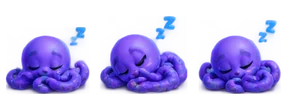
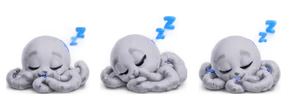
Agent Panel: the octopus takes its state's colour, green, red or grey

diff --git a/agent-panel.html b/agent-panel.html
@@ -10,7 +10,8 @@
      Mascot (2026-11-09): a purple octopus (the maintainer's sheet, cut by tools/mascot-export.py into
      mascot/ and inlined by agent-panel.pyw as window.MASCOT). It is the header's logo and sits on every
      card: reading a tablet while the session works, puzzled with a question mark while it asks, calm and
-     blinking now and then while it is open, asleep and still when closed. Without the strips the old logo stays. The bars' 50-80 % band is gold to match the status line,
+     blinking now and then while it is open, asleep and still when closed, and takes its state's dot
+     colour (green, red, grey; the strips are recoloured at export). Without the strips the old logo stays. The bars' 50-80 % band is gold to match the status line,
      an exception to Spark's "gold for rewards only". Written-down exceptions to design.md "One row,
      one shape": the header's logo (36, the octopus), count pill (18, pill radius) and hide button (26) differ, the
      pill qualifying the title and the button standing apart at the edge. Headings and boxes share the

diff --git a/tools/mascot-export.py b/tools/mascot-export.py
@@ -6,7 +6,9 @@ Source: tools/mascot-source/purple-octopus.png, a 1536 x 1024 sheet with transpa
 two columns of six numbered rows, five frames per row, a dark label pill at each row's top left.
 Each row used here is cut into its frames (alpha bands between the drawings), every frame placed
 on one square canvas per row, standing on the drawing's baseline and centred on it, so the frames
-line up when played; then scaled to 96 px frames (shown at 36 to 38 px, sharp on scaled screens).
+line up when played; then scaled to 96 px frames (shown at 36 to 38 px, sharp on scaled screens),
+and recoloured to its state's dot colour: only the octopus's purple changes hue (the blue eyes, the
+white and the props keep theirs), green for open and working, red for asking, grey for closed.
 Output: mascot/<name>.webp next to this folder's parent, one horizontal strip per name, and
 mascot/logo.png, the package's logo (256 px), and mascot/tray.png, the tray icon (64 px).
 """
@@ -19,13 +21,30 @@ HERE = os.path.dirname(os.path.abspath(__file__))
 SRC = os.path.join(HERE, "mascot-source", "purple-octopus.png")
 OUT = os.path.join(os.path.dirname(HERE), "mascot")
 OUT_PX = 96
-# name: (column 0 or 1, row band 0..5, frames to keep in play order)
+# name: (column 0 or 1, row band 0..5, frames to keep in play order, colour)
 STRIPS = {
-    "calm": (0, 0, [0, 1, 2, 3, 4]),        # 1 Calm: looks around, blinks
-    "reading": (1, 0, [0, 1, 2, 3, 4]),     # 2 Watching / reading a tablet
-    "sleeping": (0, 1, [0, 1, 2]),          # 3 Asleep (cap and bubble frames left out)
-    "asking": (1, 3, [1, 2, 4, 2]),         # 8 Puzzled, question marks (the box frame left out)
+    "calm": (0, 0, [0, 1, 2, 3, 4], "green"),     # 1 Calm: looks around, blinks
+    "reading": (1, 0, [0, 1, 2, 3, 4], "green"),  # 2 Watching / reading a tablet
+    "sleeping": (0, 1, [0, 1, 2], "grey"),        # 3 Asleep (cap and bubble frames left out)
+    "asking": (1, 3, [1, 2, 4, 2], "red"),        # 8 Puzzled, question marks (the box frame left out)
 }
+# the panel's dot colours (--green #16a34a, --red #e11d48, --gone grey) as a target hue for the
+# octopus's purple (hue about 250), with saturation and brightness scaled so it is not neon
+COLOURS = {"green": (142, 0.8, 0.85), "red": (350, 0.9, 0.95), "grey": (None, 0.1, 0.85)}
+
+
+def recolour(img, colour):
+    hue, sat, val = COLOURS[colour]
+    rgba = np.array(img)
+    hsv = np.array(Image.fromarray(rgba[:, :, :3]).convert("HSV")).astype(float)
+    h = hsv[:, :, 0] * 360 / 255
+    purple = (h >= 232) & (h <= 320) & (hsv[:, :, 1] > 30)  # the irises (hue about 215) stay blue
+    if hue is not None:
+        hsv[:, :, 0] = np.where(purple, (h + hue - 250) % 360, h) * 255 / 360
+    hsv[:, :, 1] = np.where(purple, hsv[:, :, 1] * sat, hsv[:, :, 1])
+    hsv[:, :, 2] = np.where(purple, hsv[:, :, 2] * val, hsv[:, :, 2])
+    rgb = np.array(Image.fromarray(hsv.clip(0, 255).astype("uint8"), "HSV").convert("RGB"))
+    return Image.fromarray(np.dstack([rgb, rgba[:, :, 3]]), "RGBA")
 BANDS = [0, 170, 345, 530, 700, 870, 1024]
 
 sheet = Image.open(SRC).convert("RGBA")
@@ -67,7 +86,7 @@ def frames_of(col, band):
 
 
 os.makedirs(OUT, exist_ok=True)
-for name, (col, band, keep) in STRIPS.items():
+for name, (col, band, keep, colour) in STRIPS.items():
     frames = frames_of(col, band)
     side = max(max(f.width, f.height) for f in frames) + 6
     strip = Image.new("RGBA", (OUT_PX * len(keep), OUT_PX))
@@ -76,10 +95,10 @@ for name, (col, band, keep) in STRIPS.items():
         canvas = Image.new("RGBA", (side, side))
         canvas.paste(f, ((side - f.width) // 2, side - 3 - f.height))
         strip.paste(canvas.resize((OUT_PX, OUT_PX), Image.LANCZOS), (i * OUT_PX, 0))
-    strip.save(os.path.join(OUT, name + ".webp"), "WEBP", quality=85, method=6)
-    print("wrote %s (%d frames)" % (name, len(keep)))
+    recolour(strip, colour).save(os.path.join(OUT, name + ".webp"), "WEBP", quality=85, method=6)
+    print("wrote %s (%d frames, %s)" % (name, len(keep), colour))
 
-# the package's logo (README, tray icon): the calm octopus's first pose, cut close to its drawing
+# the package's logo (README, tray icon): the calm octopus's first pose in its own purple, cut close
 f = frames_of(*STRIPS["calm"][:2])[0]
 side = max(f.width, f.height)
 logo = Image.new("RGBA", (side, side))

diff --git a/memory.md b/memory.md
@@ -27,7 +27,7 @@ Key file: `~/.claudex/profiles/glm/.env`, line `CLAUDEX_KEY="..."`. Never in thi
 - Right-click menu (2026-11-07, the maintainer's spec): Hide / Unhide, Close (open sessions only), Delete. The menu is HTML inside the panel (a web page cannot draw outside its window), opened at the pointer and kept inside the panel; Delete is red on a pale red hover. It closes on Escape, on a click outside (that click does nothing else), on scroll and on focus loss. The native menu was rejected (the maintainer, 2026-11-08: it ignores the theme). Hidden ids live in `~/.claude/state/agent-panel/hidden.json`; Hidden sessions, sessions whose folder is gone and headless runs (`entrypoint` `sdk-cli` in the transcript: a `claude -p` that another session started, e.g. tech news calling the Topview MCP; 2026-11-08, the maintainer) stay out of the main list and the header count; a headless card says `headless` and its menu has no Hide; the quiet link *Show Hidden, Deleted and Headless (n)* in the strip under the list adds a HIDDEN, DELETED AND HEADLESS section after the main list and scrolls to it. Cards there are not greyed; their second line says `hidden` or `folder deleted` (the maintainer, 2026-11-07: greyed cards inside the main list read as clutter; the user's word is "deleted", not "missing"). Open/working dots are refreshed every 2 s from `~/.claude/sessions/<pid>.json` alone (the full transcript scan stays at 15 s), so a session closed in its own terminal loses its dot within 2 s. Close and Delete confirm in two steps beside the control, per `mindmap/table.md` *Delete confirmation* (2026-11-08, replacing two modal dialogs): the menu turns into a small card with the question, one sentence on what happens, Cancel (focused, the default) and *Yes, Close* / *Yes, Delete*, placed under the card (above it near the bottom), never on it. Delete on an open session closes it first and waits up to 10 s for its process to end (`close_delete`); on a session stored inside WSL it is shown greyed and says why under itself (a network path has no Recycle Bin). It then moves the transcript, its `<id>/` folder and `file-history/<id>/` to the Recycle Bin with `SHFileOperationW` (`FOF_ALLOWUNDO`). Project files and the project's auto memory are never touched. Close sends `WM_CLOSE` to the session's window when no other open session shares it, otherwise ends the process; the transcript stays.
 - Tested 2026-11-07: work area back to the full 1920 px with the panel running; a maximised window spans the full width and covers the panel; Ctrl+Alt+C raised the panel over it.
 - Panel look (2026-11-08): the Spark theme (`mindmap/design_themes/spark_theme`) as CSS in `agent-panel.html`: Spark colours, 14 px cards with the resting `--shadow`, 10 px search box with a blue focus ring, blue hover border, colour-matched glow on the confirm buttons, blue to cyan logo tile as inline SVG; gold only for rewards. State (the maintainer, 2026-11-09, replacing a blinking dot): the dot is green for a working or open session, grey for a closed one, red for one asking. The whole card of a working session breathes: its background and a ring fade to green and back every 2.4 s (a plain blink of the dot was not seen from afar; a hard blink of whole cards, several at once, was rejected as too loud at the screen edge). A session whose own window shows a prompt waiting for an answer (a permission question or a dialog) pulses red, faster (1.2 s), so it stands out among working ones. Under reduced motion the card keeps a still green or red tint and ring, and the working dot is a hollow ring. The red state comes from `waitingFor`: Claude Code writes it into `~/.claude/sessions/<pid>.json` while `status` still says `busy`, and the panel reads it every 2 s. Before this such a session looked as if it were working. Fonts are Segoe UI (Manrope and Inter are not installed; bundling them was offered, not chosen yet). The Tk version (2026-11-07) had to replace shadows with borders and draw icons with PIL; that is why it was ported (see `mindmap/claude-plus-fa.md`, Decisions).
-- Mascot (2026-11-09, the maintainer): a purple octopus from the maintainer's own sprite sheet, the header's logo (36 px, showing the most pressing state in the list) and on every card (38 px, on the left). It replaced, the same day, MindCopy's Knowledge Gremlin, whose detail turned to mush at 38 px; drawn SVG droplets were tried in between and rejected (too soft, then a superhero version that did not read). Mood by state: working reads a tablet (loop, 650 ms a frame), asking looks puzzled with a question mark (loop, 550 ms), open looks around and blinks once then rests 5 s (450 ms), closed sleeps without moving. The sheet's frames are separate poses, not in-betweens, so each holds about half a second; faster swapping looked jittery. One `requestAnimationFrame` timer drives every strip; each card starts at a random moment so they do not move in step; reduced motion shows frame 0 only (rules: `mindmap/mascot.md`). Every card shows the same octopus: the sheet has one character, so cards no longer look different from each other.
+- Mascot (2026-11-09, the maintainer): a purple octopus from the maintainer's own sprite sheet, the header's logo (36 px, showing the most pressing state in the list) and on every card (38 px, on the left). It replaced, the same day, MindCopy's Knowledge Gremlin, whose detail turned to mush at 38 px; drawn SVG droplets were tried in between and rejected (too soft, then a superhero version that did not read). Each strip is recoloured at export to its state's dot colour (the maintainer, 2026-11-09): green for working and open, red for asking, grey for closed; only the octopus's purple (hue 232 to 320) is shifted, so the blue eyes and the props keep their colours; the logo and the tray icon stay purple. Mood by state: working reads a tablet (loop, 650 ms a frame), asking looks puzzled with a question mark (loop, 550 ms), open looks around and blinks once then rests 5 s (450 ms), closed sleeps without moving. The sheet's frames are separate poses, not in-betweens, so each holds about half a second; faster swapping looked jittery. One `requestAnimationFrame` timer drives every strip; each card starts at a random moment so they do not move in step; reduced motion shows frame 0 only (rules: `mindmap/mascot.md`). Every card shows the same octopus: the sheet has one character, so cards no longer look different from each other.
 - Card rows (2026-11-08, the maintainer; path row removed 2026-11-09): title, whose tooltip is the full folder path (`where_of`: a WSL-distro session gets `\\wsl.localhost\<distro>` in front, `//` paths turn into backslashes), with the title in full above it when the title is cut (navy, after 400 ms of pointer movement, gone after 3 s, on leave, on a click or on scroll, per `tooltip.md`, which also rules out opening it on keyboard focus; a screen reader gets the path in the card's label). The path had its own row until 2026-11-09; dropping it makes cards smaller so more sessions fit, at the cost of telling same-titled sessions apart only by pointing. Search still matches the path. Then `ctx` bar + percent from `~/.claude/state/context/<sid>.json` (green < 50, gold < 80, red above, as on the status line; left out entirely when unknown) and on the right `hidden` / `headless` / `folder deleted` / age, joined by ` · `. Every part of that row but the flags keeps its width; the flags end in `…` when they do not fit, with the same tooltip showing them in full (a row wider than the card gave the list a horizontal scrollbar, 2026-11-08). Cards are 56 px high. The `(WSL)` tag is gone: the path shows it. The bottom strip shows `5h` and `week` bars from `rate_limits.json`; a figure whose `resets_at` has passed says *no figure yet*. Cards are kept and patched by id, never redrawn wholesale: open sessions change every 2 s, and a redrawn card drops the hover and the title's tooltip (this hid the tooltip in the first web build).
 - `apply design.md` (2026-11-08, three passes) changed the panel: a message about one card shows under that card (an error stays until the next click or key, a success leaves after 5 s); a message about the whole panel floats above the bottom link, and a failed scan stays there in amber until a scan succeeds; the search has a × and Esc, searches title and full path, marks hits and turns the count into `matches/total`; a skeleton shows until the first scan (`scanned` in the state); the age moved to the title row; titles cut with … get a tooltip; every button has a custom tooltip (no `title`); cards are keyboard buttons (Enter or Space opens, Shift+F10 or the menu key opens the menu, arrows walk it); reduced motion stops all motion and draws the working dot as a ring; the closed dot and the bottom link were darkened for contrast. `statusline.py` now rounds halves up like the panel, so both show the same percent.
 - Clicks (2026-11-07, the maintainer): a closed session opens only on a double click, so a stray click never starts one (a single click says "Double-click to open it.", held back 450 ms so a double click never shows it); an open session comes forward on a single click.

diff --git a/README.md b/README.md
@@ -47,7 +47,7 @@ A set of add-ons that makes [Claude Code](https://code.claude.com) on Windows sa
 - Every Claude Code session on your PC, old and current, in a narrow list over the right edge of the screen, newest first, with a search box. It takes no screen space: desktop icons and maximised windows keep their place, and the window you are working in covers it.
 - Each session shows its title (point at it to see the session's full folder path) and a `ctx` bar with how much of its context is used, as on the status line. The bottom of the panel shows your `5h` and `week` usage and when each resets. Both come from the claude-plus-fa status line, so a session that never ran with it shows no bar, and a usage figure not reported yet says *no figure yet*.
 - Double-click a closed session and it **automatically** opens in its own folder, in a new terminal, as `claude --resume <session> --dangerously-skip-permissions`. Sessions you started from a WSL folder open there too.
-- A little purple octopus sits beside every session: it reads a tablet while the session works, looks puzzled with a question mark when the session asks you something, blinks now and then while it is open and sleeps when it is closed.
+- A little octopus sits beside every session, in the colour of the session's dot: green, it reads a tablet while the session works and blinks now and then while it is open; red, it looks puzzled with a question mark when the session asks you something; grey, it sleeps when the session is closed.
 - A green dot marks an open session and a grey one a closed session. The whole card of a working session slowly glows green, and the card of a session whose window asks you something (a permission prompt) pulses red. A single click on an open session does not start a second copy: it brings that session's window to the front, at the size and place it had (restored if it was minimised).
 - It starts **automatically** when you sign in to Windows. `Ctrl+Alt+C` or its tray icon brings it to the front when it is covered, and hides or shows it otherwise.
 - Right-click a session to **Hide** it from the list, **Close** it if it is open, or **Delete** it. Hidden sessions, sessions whose folder no longer exists, and headless runs (a `claude -p` that another session started) leave the main list; *Show Hidden, Deleted and Headless* at the bottom of the panel lists them in a section of their own.
